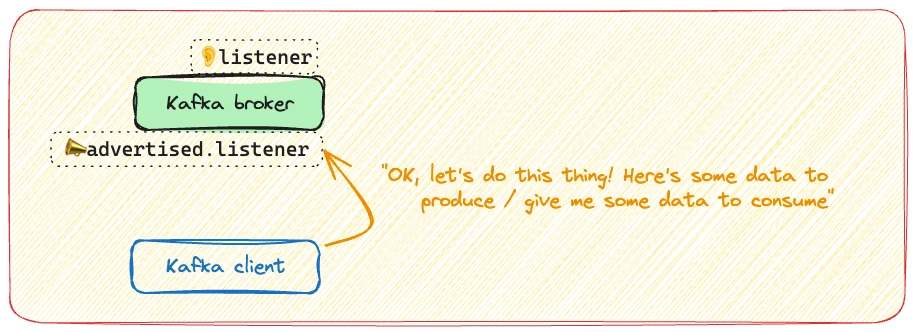
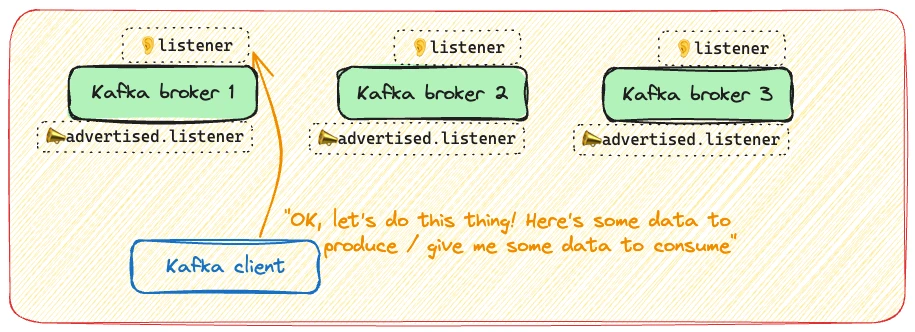
Update diagrams, text nits

Changed region(s): [[0.0306, 0.0904, 0.918, 0.7831], [0.612, 0.1205, 0.8874, 0.4518], [0.7956, 0.6928, 0.8262, 0.7229]]

diff --git a/content/post/kafka-ngrok.md b/content/post/kafka-ngrok.md
@@ -18,7 +18,7 @@ In this post we'll see how you can use [ngrok](https://ngrok.com/) to, in their 
 
 ## Overview
 
-Why? In my case, I wanted to expose my local Kafka as a source to [Decodable](https://decodable.co/) so that I can ingest streams of data for processing with Apache Flink through the managed service.
+Why? In my case, I wanted to expose my local Kafka as a source (and target) to [Decodable](https://decodable.co/) so that I can process streams of data with Apache Flink through the managed service that Decodable provides.
 
 ![Overview of Kafka solution](/images/2023/11/ngrok01.webp)
 
@@ -26,11 +26,13 @@ The example I'm going to show has ngrok and the Kafka broker running in a Docker
 
 ![Overview of Kafka/ngrok solution](/images/2023/11/ngrok02.webp)
 
-_ngrok has a free tier to use which works jsut fine for this, but you will need to [create a free account](https://dashboard.ngrok.com/signup) to get your [auth token](https://dashboard.ngrok.com/get-started/your-authtoken). In this article I'm assuming you've exported your auth token to the environment variable `NGROK_AUTH_TOKEN`_.
+### ngrok
+
+ngrok has a free tier to use which works just fine for this, but you will need to [create a free account](https://dashboard.ngrok.com/signup) to get your [auth token](https://dashboard.ngrok.com/get-started/your-authtoken). In this article I'm assuming you've exported your auth token to the environment variable `NGROK_AUTH_TOKEN`.
 
 ## Kafka and Listeners and Advertised Listeners…oh my
 
-In theory, using ngrok is easy. You configure a _tunnel_ which routes a publicly-accessible host/port to one accessed from the ngrok agent running locally.
+In theory, using ngrok is straightforward. You configure a _tunnel_ which routes a publicly-accessible host/port to one accessed from the ngrok agent running locally. Here we're telling it to route the public tunnel to a machine called `broker` on port `9092`:
 
 ```bash
 ngrok tcp broker:9092 --authtoken $NGROK_AUTH_TOKEN
@@ -69,13 +71,17 @@ $ echo "hello world" | kcat -b 6.tcp.eu.ngrok.io:13075 -P -t test_topic
 
 oh no! 😖 
 
-So here's what's happening. The **`advertised.listener`** is the address at which the broker tells the client that it is to be found. 
+So here's what's happening. Kafka is a distributed system; it's only in sandbox/demo environments that you'd ever be running just a single broker. For this reason, you have a _bootstrap_ address for one or more servers in the cluster. When you _initially_ connect it's to the bootstrap server (`6.tcp.eu.ngrok.io:13075`). 
 
-![The intitial bootstrap/advertised listeners exchange between Kafka broker and client](/images/2023/11/ngrok03.webp)
+![The initial bootstrap connection between Kafka broker and client](/images/2023/11/ngrok03a.webp)
 
-After the initial bootstrap connection its the address which the client will then connect to when producing or consuming records. 
+The server returns the **`advertised.listener`** for each of the brokers in the cluster as the address at which each of them can be found for subsequent connections. 
 
-![The intitial bootstrap/advertised listeners exchange between Kafka broker and client](/images/2023/11/ngrok04.webp)
+![The advertised listeners exchange between Kafka broker and client](/images/2023/11/ngrok03b.webp)
+
+After the initial bootstrap connection, the client uses the address that was returned to connect to when producing or consuming records. 
+
+![The Kafka client using advertised.listener to find which the broker's connection address for produce/consume](/images/2023/11/ngrok04.webp)
 
 If we introduce ngrok into the mix it looks like this: 
 
@@ -193,9 +199,9 @@ I've then overriden the `entrypoint` of the container. First, it will wait for t
 ```bash
 echo "Waiting for ngrok tunnel to be created"
 while : ; do
-    curl_status=$$(curl -s -o /dev/null -w %{http_code} http://ngrok:4040/api/tunnels/command_line)
-    echo -e $$(date) "\tTunnels API HTTP state: " $$curl_status " (waiting for 200)"
-    if [ $$curl_status -eq 200 ] ; then
+    curl_status=$(curl -s -o /dev/null -w %{http_code} http://ngrok:4040/api/tunnels/command_line)
+    echo -e $(date) "\tTunnels API HTTP state: " $curl_status " (waiting for 200)"
+    if [ $curl_status -eq 200 ] ; then
     break
     fi
     sleep 5 
@@ -207,8 +213,8 @@ Then—in the absence of `jq` on the `confluentinc/cp-kafka` image—I use some 
 
 ```bash
 NGROK_LISTENER=$(curl -s  http://ngrok:4040/api/tunnels/command_line | grep -Po '"public_url":.*?[^\\]",' | cut -d':' -f2- | tr -d ',"' | sed 's/tcp:\/\//NGROK:\/\//g')
-export KAFKA_ADVERTISED_LISTENERS="$$KAFKA_ADVERTISED_LISTENERS, $$NGROK_LISTENER"
-echo "KAFKA_ADVERTISED_LISTENERS is set to " $$KAFKA_ADVERTISED_LISTENERS
+export KAFKA_ADVERTISED_LISTENERS="$KAFKA_ADVERTISED_LISTENERS, $NGROK_LISTENER"
+echo "KAFKA_ADVERTISED_LISTENERS is set to " $KAFKA_ADVERTISED_LISTENERS
 ```
 
 And then, finally, we launch the Kafka broker (using the original value of the Docker image's `entrypoint`): 
